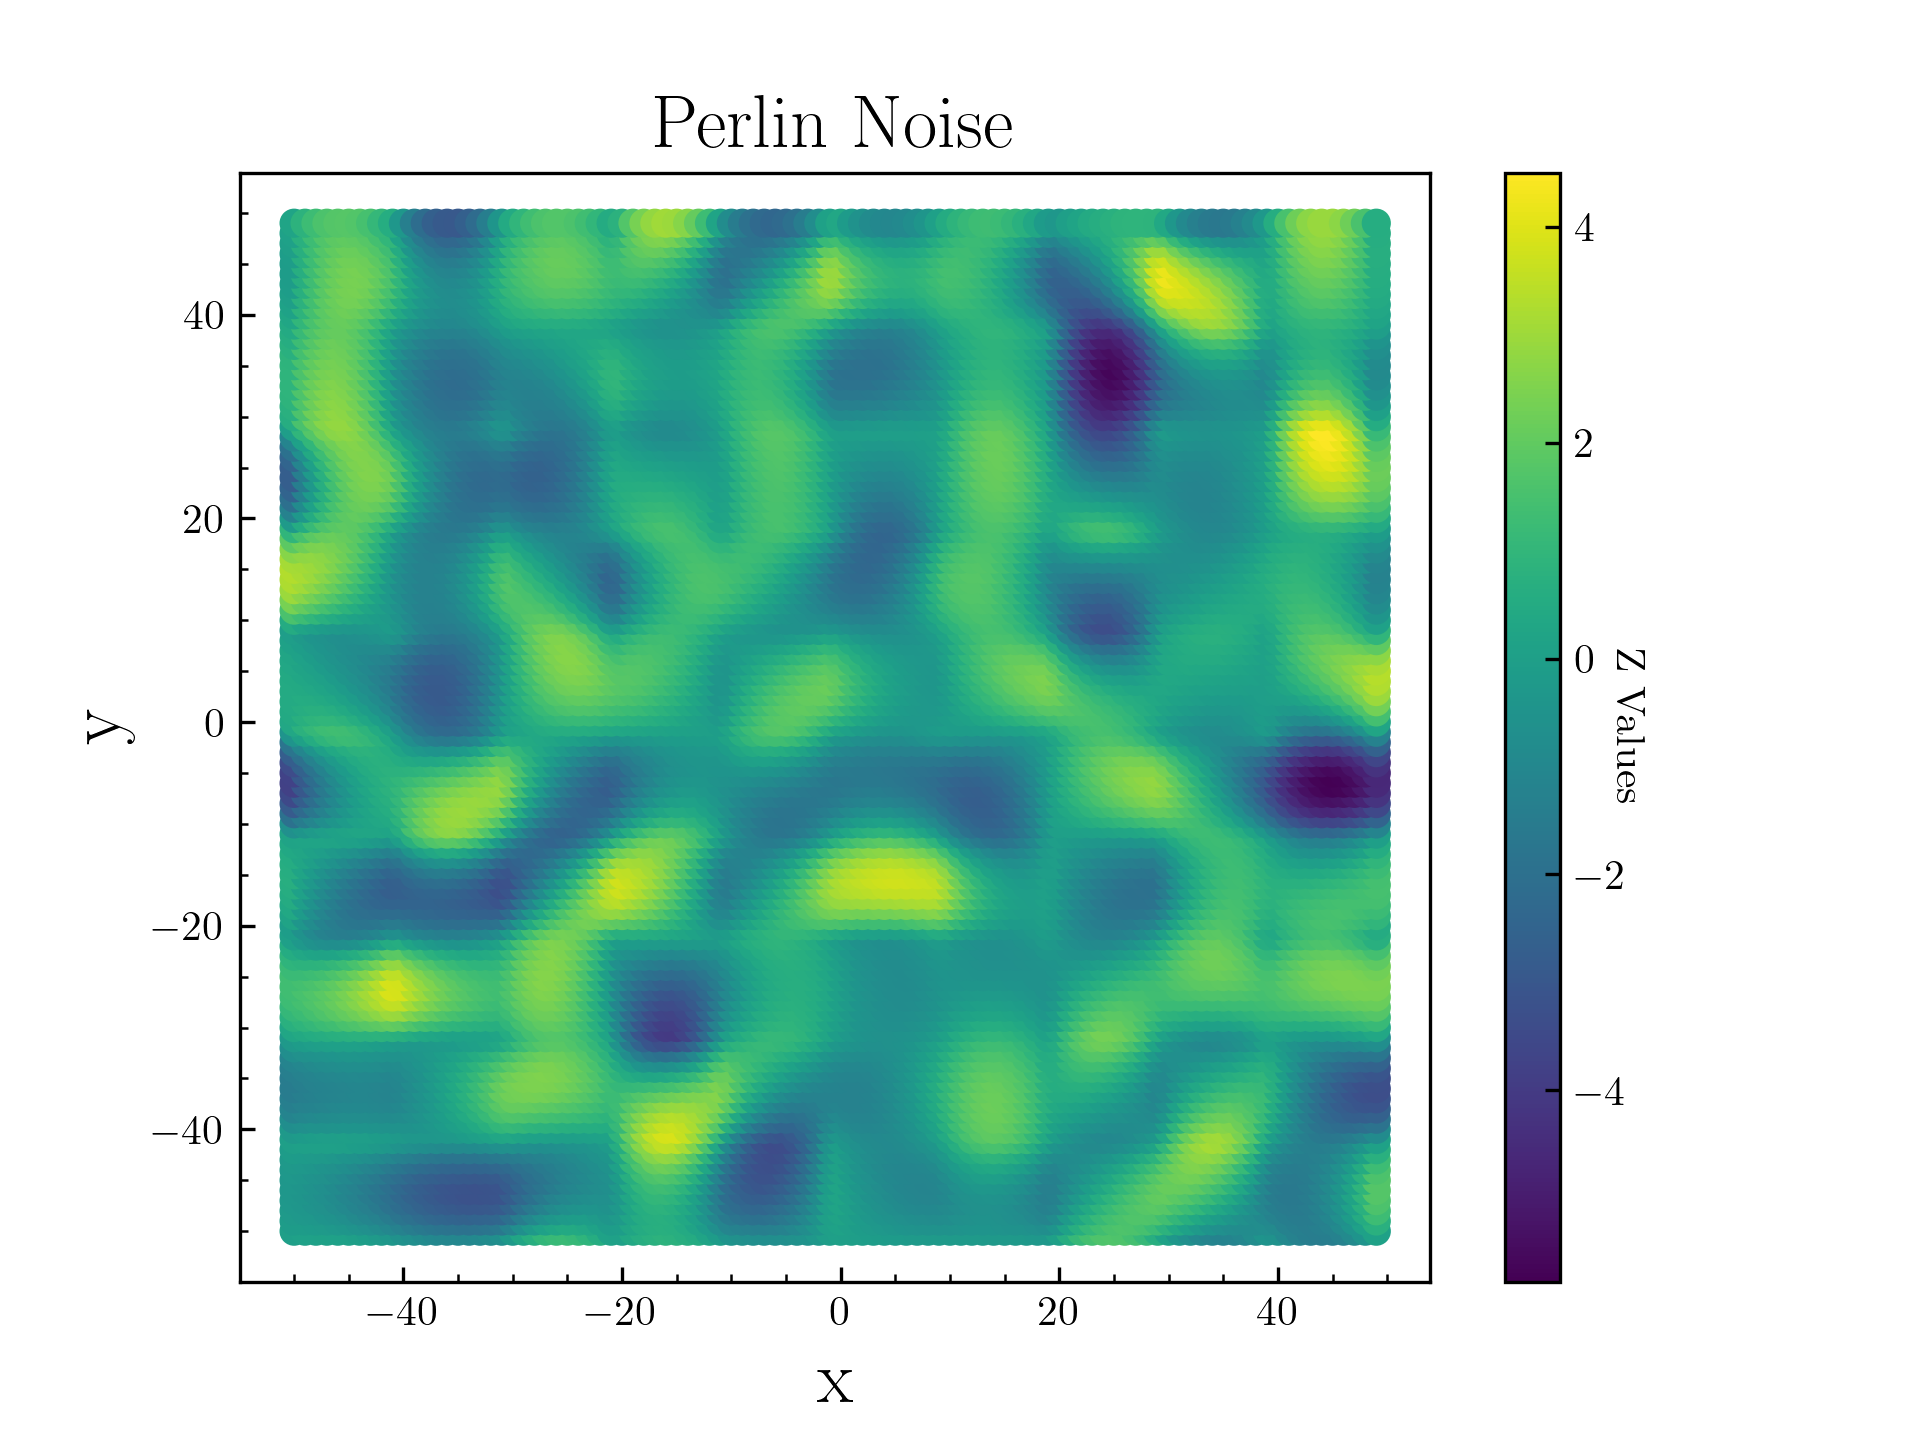
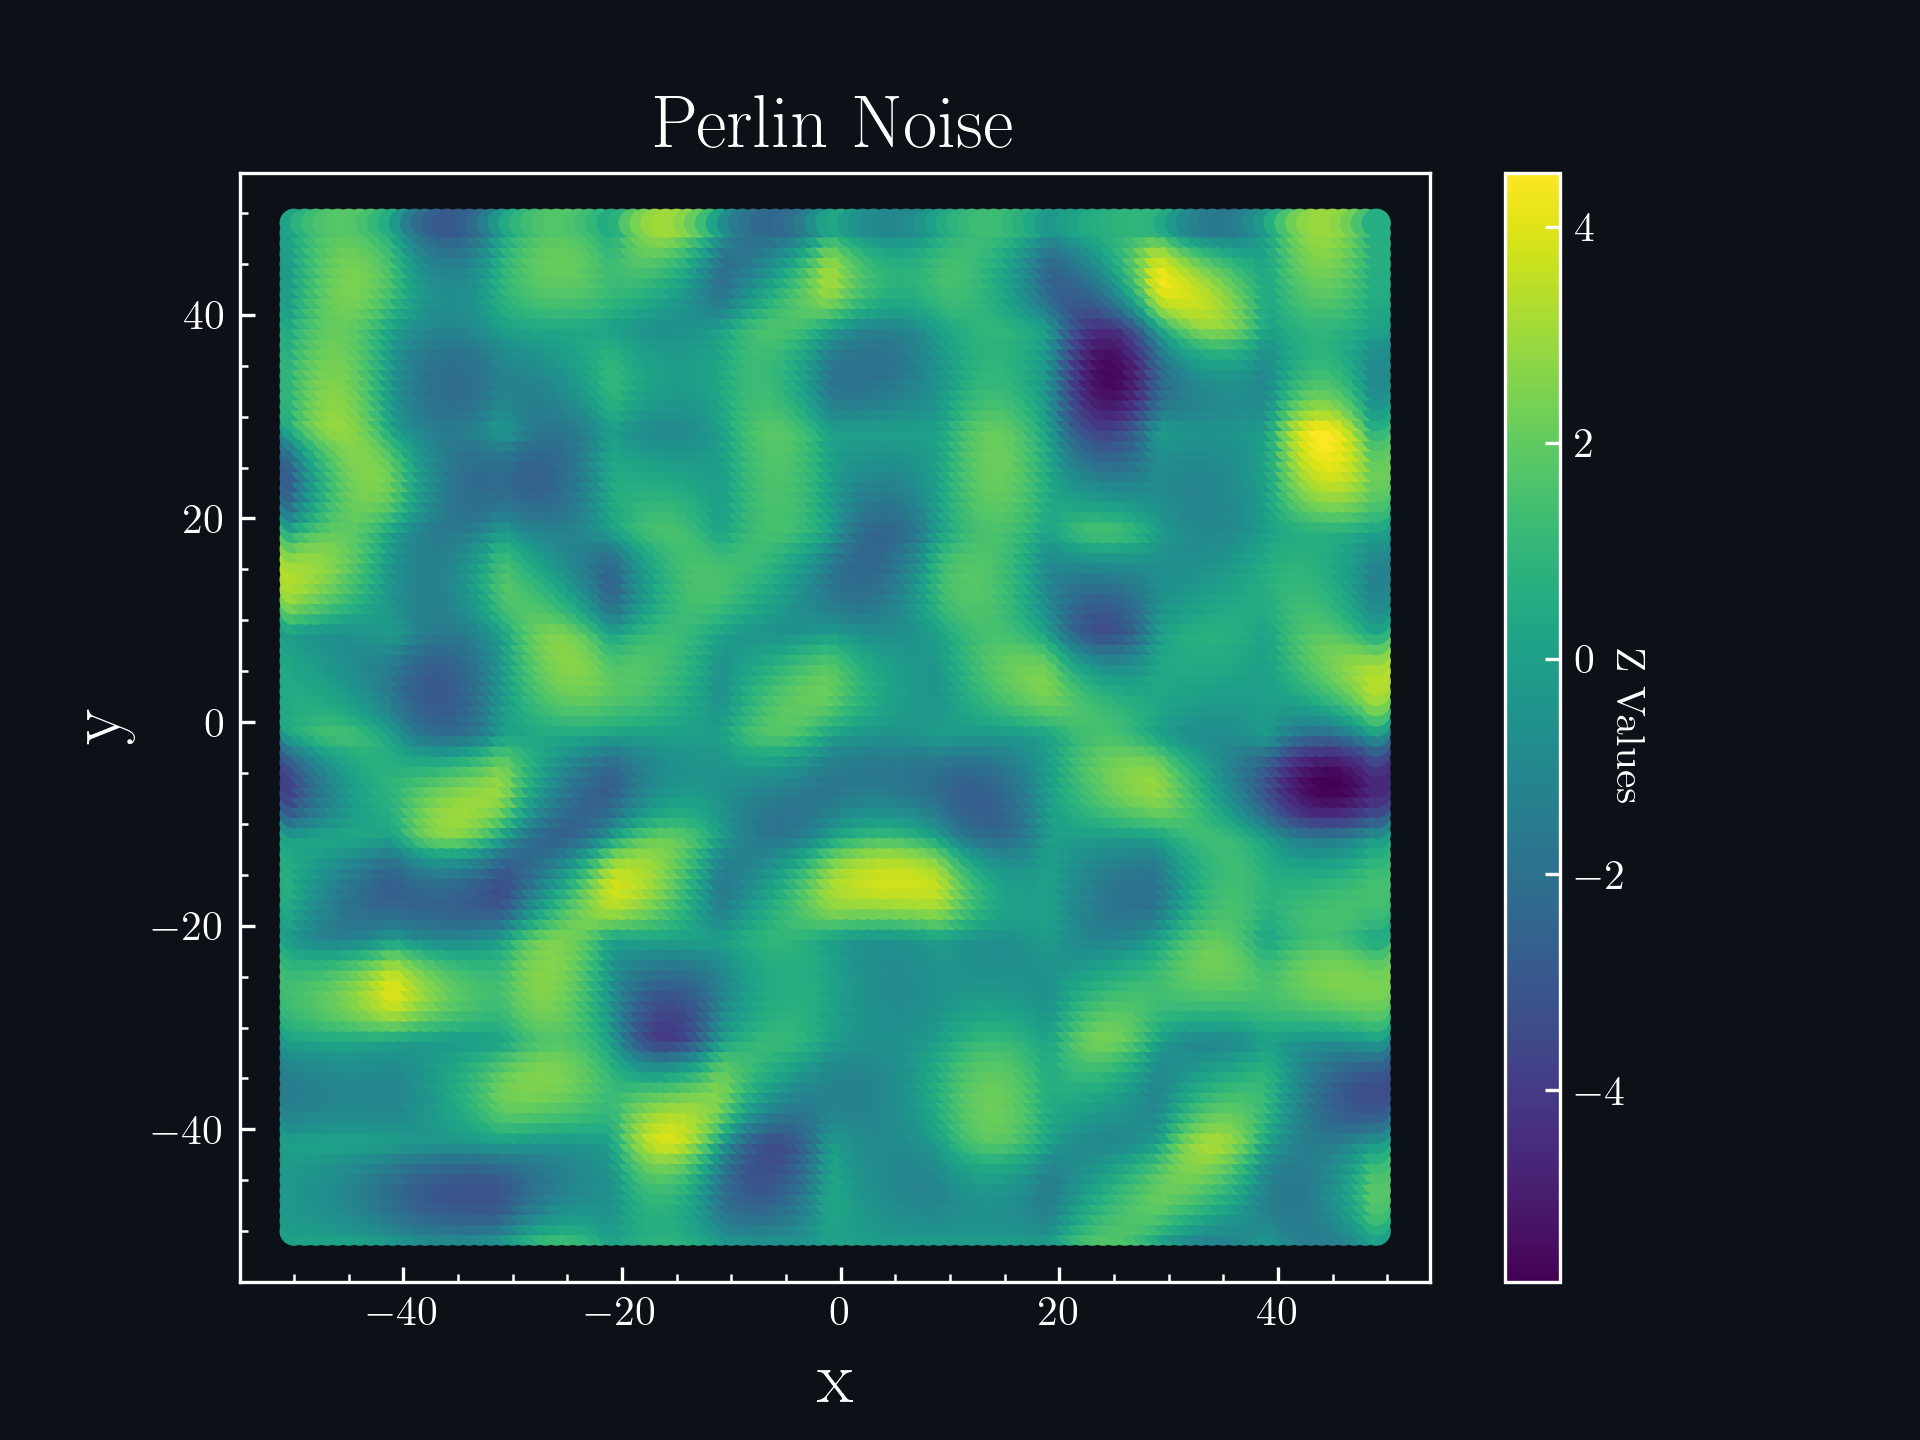
3blue1brown lmao

diff --git a/2D_Map.py b/2D_Map.py
@@ -7,6 +7,9 @@ matplotlib.rcParams['text.usetex'] = True
 matplotlib.rcParams['font.family'] = 'serif'
 matplotlib.rcParams['ytick.direction'] = 'in'
 matplotlib.rcParams['xtick.direction'] = 'in'
+plt.rcParams["figure.facecolor"] = "#0c1117"
+matplotlib.rcParams.update({'text.color': 'white'})
+
 
 x,y,z = [],[],[]
 
@@ -27,8 +30,21 @@ plt.ylabel("y", fontsize=18)
 ax = plt.gca()
 ax.xaxis.set_minor_locator(tck.AutoMinorLocator())
 ax.yaxis.set_minor_locator(tck.AutoMinorLocator())
+ax.xaxis.label.set_color("white")
+ax.yaxis.label.set_color("white")
+
+ax.spines['bottom'].set_color('white')
+ax.spines['top'].set_color('white') 
+ax.spines['right'].set_color('white')
+ax.spines['left'].set_color('white')
+ax.tick_params(colors='white', which='both')
+
+ax.set_facecolor("#0c1117")
 
 cbar = plt.colorbar()
-cbar.set_label('Z Values', rotation=270)
+cbar.set_label('Z Values', rotation=270,color = "white")
+cbar.ax.yaxis.set_tick_params(color="white")
+cbar.outline.set_edgecolor("white")
+plt.setp(plt.getp(cbar.ax.axes, 'yticklabels'), color="white")
 
 plt.savefig("2D_Map.png", dpi = 300)

diff --git a/src/ofApp.cpp b/src/ofApp.cpp
@@ -147,7 +147,7 @@ void ofApp::GenerateMap()
 void ofApp::setup()
 {
     ofSetVerticalSync(true);
-    ofSetBackgroundColor(21, 26, 30);
+    ofSetBackgroundColor(12, 17, 23);
     glShadeModel(GL_FLAT);
     ofSetSmoothLighting(true);
 
